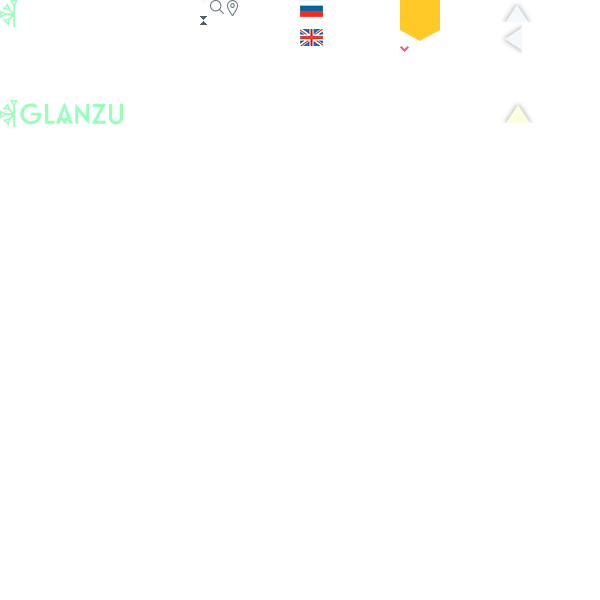
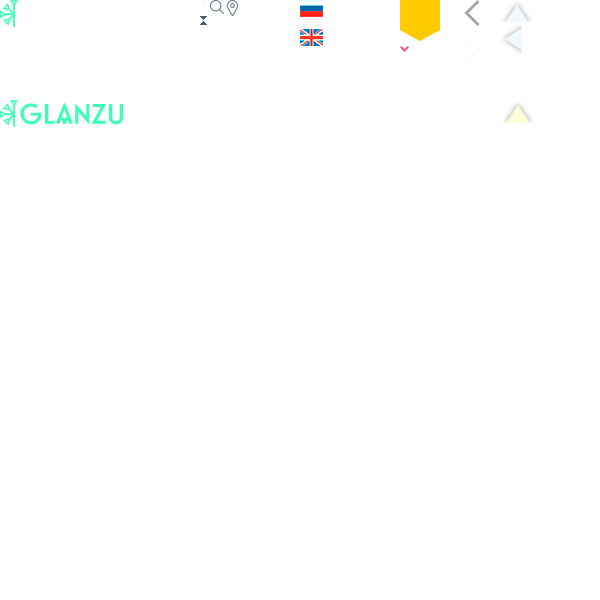
Changed gallery

diff --git a/src/index.html b/src/index.html
@@ -122,7 +122,7 @@
                         <div class="html5gallery" data-skin="gallery" data-width="430" data-height="285" data-resizemode="fill" data-thumbwidth="85" data-thumbheight="85"
                              data-showtitle="false" data-thumbgap="0" data-carouselmargin="0"
                              data-showimagetoolbox="always" data-lightbox="true" data-effect="slide"
-                             data-padding="0" data-responsive="true" style="display:none">
+                             data-padding="0" data-responsive="true" style="display:none; overflow:hidden">
                             <!-- Add images to Gallery -->
                             <a href="img/gallery/gallery_main_pic.png">
                                 <img src="img/gallery/gallery_main_pic.png" />
@@ -176,7 +176,8 @@
                                     }
 
                                 a[href='http://html5box.com/html5gallery/watermark.php'] {
-                                    opacity: 0;
+                                    display:none;
+                                    opacity:0;
                                 }
 
                                 .html5gallery-toolbox-0 {
@@ -184,59 +185,57 @@
                                     opacity: 1 !important;
                                 }
 
-                                    .html5gallery-toolbox-0 .html5gallery-right-0 {
-                                        display: block;
-                                        left: auto !important;
-                                        right: 12px;
-                                        width: 36px;
-                                        height: 80px;
-                                        border-radius: 40px 0 0 40px;
-                                        background: none;
-                                        background-color: rgba(104, 105, 103, 0.9);
-                                    }
-
-                                        .html5gallery-toolbox-0 .html5gallery-right-0:after {
-                                            content: "";
-                                            position: absolute;
-                                            top: 25px;
-                                            right: 3px;
-                                            width: 18px;
-                                            height: 27px;
-                                            background: url(img/arrow.png) 0 0 no-repeat;
-                                        }
-
-                                    /*.html5gallery-toolbox-0 .html5gallery-right-0:hover:after {
-                                            background-position: -23px -71px;
-                                        }*/
-
+                                    .html5gallery-toolbox-0 .html5gallery-right-0,
                                     .html5gallery-toolbox-0 .html5gallery-left-0 {
                                         display: block;
-                                        left: 0px;
-                                        width: 36px;
+                                        width: 80px;
                                         height: 80px;
-                                        border-radius: 0 40px 40px 0;
+                                        -moz-border-radius: 50%;
+                                        -webkit-border-radius: 50%;
+                                        border-radius: 50%;
                                         background: none;
                                         background-color: rgba(104, 105, 103, 0.9);
                                     }
 
+                                    .html5gallery-toolbox-0 .html5gallery-right-0 {
+                                        left: auto !important;
+                                        right: -41px;
+                                        /*border-radius: 40px 0 0 40px;*/
+                                    }
+
+                                    .html5gallery-toolbox-0 .html5gallery-left-0 {
+                                        left: -49px;
+                                        /*border-radius: 0 40px 40px 0;*/
+                                    }
+
+                                        .html5gallery-toolbox-0 .html5gallery-right-0:after,
                                         .html5gallery-toolbox-0 .html5gallery-left-0:after {
                                             content: "";
                                             position: absolute;
-                                            top: 25px;
-                                            left: 4px;
+                                            top: 26px;
                                             width: 18px;
                                             height: 27px;
-                                            background: url(img/arrow.png) 0 0 no-repeat;
-                                            -moz-transform: rotate(180deg);
-                                            -ms-transform: rotate(180deg);
-                                            -o-transform: rotate(180deg);
-                                            -webkit-transform: rotate(180deg);
-                                            transform: rotate(180deg);
+                                            background: url(img/mx.png) -465px -38px no-repeat;
                                         }
 
-                                    /*.html5gallery-toolbox-0 .html5gallery-left-0:hover:after {
-                                            background-position: 0 -71px;
-                                        }*/
+                                    .html5gallery-toolbox-0 .html5gallery-right-0:after {
+                                        left: 12px;
+                                        top:28px;
+                                    }
+
+                                    .html5gallery-toolbox-0 .html5gallery-left-0:after {
+                                        right: 12px;
+                                        -moz-transform: rotate(180deg);
+                                        -ms-transform: rotate(180deg);
+                                        -o-transform: rotate(180deg);
+                                        -webkit-transform: rotate(180deg);
+                                        transform: rotate(180deg);
+                                    }
+
+                                    .html5gallery-toolbox-0 .html5gallery-right-0:hover,
+                                    .html5gallery-toolbox-0 .html5gallery-left-0:hover {
+                                        background-color: rgba(104, 105, 103, 1);
+                                    }
 
                                     .html5gallery-toolbox-0 .html5gallery-play-0 {
                                         display: none !important;
@@ -267,7 +266,7 @@
                                 }
 
                                     .html5gallery-box-0 .html5gallery-elem-0 .html5gallery-elem-img-0 {
-                                        margin: 0 !important;
+                                        margin-top: 0 !important;
                                     }
 
                                         .html5gallery-box-0 .html5gallery-elem-0 .html5gallery-elem-img-0::after {
@@ -285,6 +284,7 @@
                                             bottom: -50px;
                                             left: 50%;
                                             margin-left: -38px;
+                                            display:inline-block;
                                         }
 
                                 .html5gallery-car-list-0 {
@@ -300,29 +300,31 @@
                                     left: 0;
                                 }
 
-                                /*.html5gallery-car-left-0:hover {
-                                        background-position: 0 -35px !important;
-                                    }*/
+                                .html5gallery-car-left-0:hover, .html5gallery-car-right-0:hover {
+                                    background: #626b74 !important;
+                                }
 
                                 .html5gallery-car-right-0, .html5gallery-car-left-0 {
                                     display: block !important;
                                     top: 13.5px !important;
-                                    right: 0;
                                     width: 40px;
                                     height: 82px;
                                     background: #82868b !important;
-                                    -moz-border-radius: 3px;
-                                    -webkit-border-radius: 3px;
-                                    border-radius: 3px;
                                     cursor: pointer;
                                 }
 
                                 .html5gallery-car-left-0 {
                                     left: 0;
+                                    -moz-border-radius: 3px 0 0 3px;
+                                    -webkit-border-radius: 3px 0 0 3px;
+                                    border-radius: 3px 0 0 3px;
                                 }
 
                                 .html5gallery-car-right-0 {
                                     right: 0;
+                                    -moz-border-radius: 0 3px 3px 0;
+                                    -webkit-border-radius: 0 3px 3px 0;
+                                    border-radius: 0 3px 3px 0;
                                 }
 
                                     .html5gallery-car-right-0:after, .html5gallery-car-left-0:after {
@@ -331,20 +333,17 @@
                                         top: 27px;
                                         width: 18px;
                                         height: 27px;
-                                        background: url(img/arrow.png) 0 0 no-repeat;
+                                        background: url(img/mx.png) no-repeat;
                                     }
 
                                     .html5gallery-car-right-0:after {
-                                        right: 9px;
+                                        right: 5px;
+                                        background-position: -465px -38px;
                                     }
 
                                 .html5gallery-car-left-0:after {
                                     left: 9px;
-                                    -moz-transform: rotate(180deg);
-                                    -ms-transform: rotate(180deg);
-                                    -o-transform: rotate(180deg);
-                                    -webkit-transform: rotate(180deg);
-                                    transform: rotate(180deg);
+                                    background-position: -465px 0;
                                 }
                                 /*.html5gallery-car-right-0:hover {
                                         background-position: -23px -35px !important;

diff --git a/src/css/excursion.css b/src/css/excursion.css
@@ -155,7 +155,8 @@
       padding-left: 25px;
       color: #485059;
       font-size: 15px;
-      position: relative; }
+      position: relative;
+      line-height: 18px; }
       .filter__results__col .transfer__selectors li label:before {
         content: "";
         display: inline-block;
@@ -170,7 +171,8 @@
         -webkit-border-radius: 50%;
                 border-radius: 50%; }
       .filter__results__col .transfer__selectors li label .tooltip {
-        border-bottom: 1px dashed #a0a4a9; }
+        border-bottom: 1px dashed #a0a4a9;
+        display: inline-block; }
         .filter__results__col .transfer__selectors li label .tooltip:hover {
           border-bottom: 0; }
       .filter__results__col .transfer__selectors li label .price {
@@ -286,7 +288,9 @@
       color: #007fbb;
       font-size: 15px;
       border-bottom: 1px dashed #007fbb;
-      position: relative; }
+      position: relative;
+      display: inline-block;
+      line-height: 18px; }
       .useful__info .useful__link a:hover {
         border-bottom: 0; }
     .useful__info .useful__link span {

diff --git a/src/sass/excursion.scss b/src/sass/excursion.scss
@@ -198,6 +198,7 @@
                     color: #485059;
                     font-size: 15px;
                     position: relative;
+                    line-height:18px;
 
                     &:before {
                         content: "";
@@ -215,6 +216,7 @@
 
                     .tooltip {
                         border-bottom: 1px dashed $border-bottom-dashed;
+                        display:inline-block;
 
                         &:hover {
                             border-bottom: 0;
@@ -375,6 +377,8 @@
             font-size: 15px;
             border-bottom: 1px dashed $link-color;
             position: relative;
+            display:inline-block;
+            line-height:18px;
 
             &:hover {
                 border-bottom: 0;
